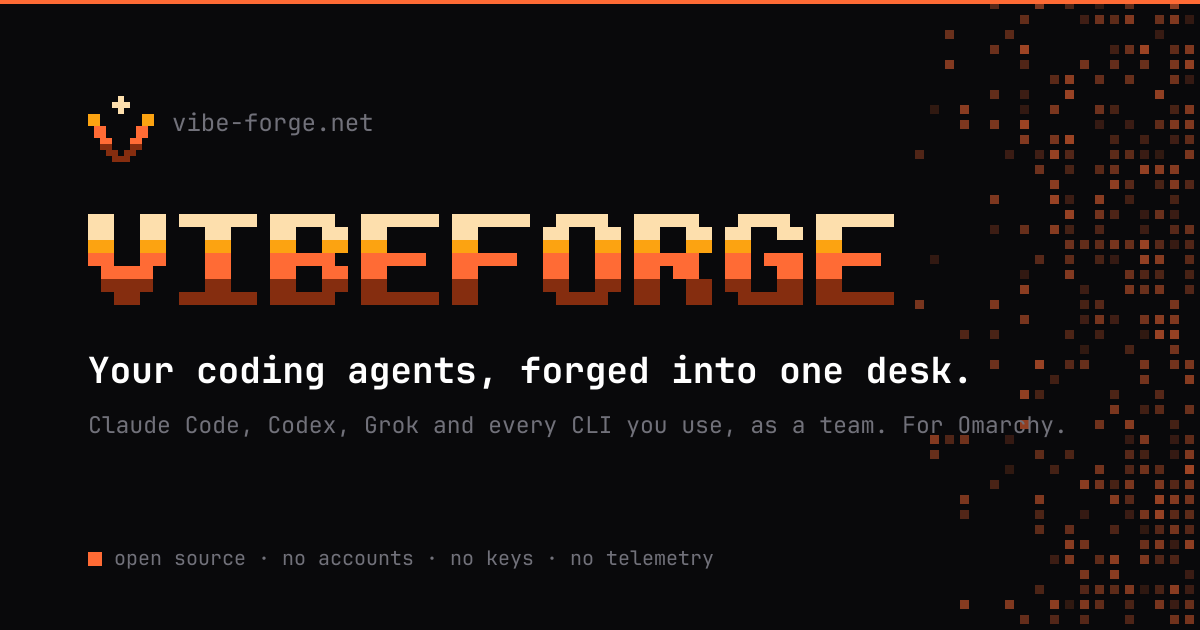
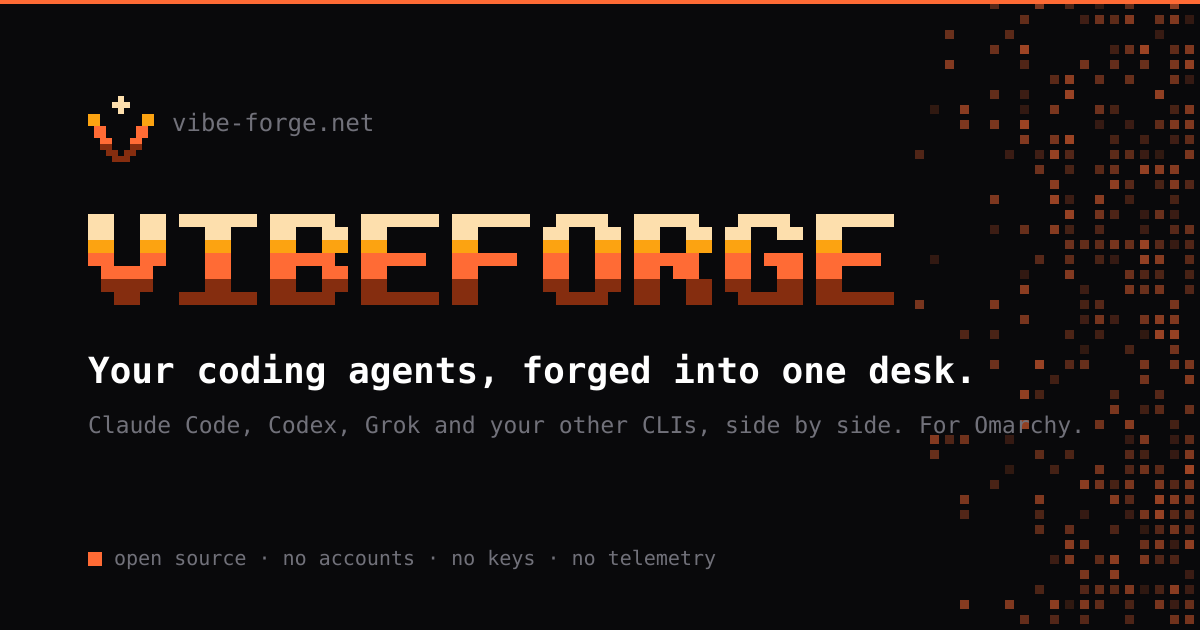
chore(site): call the feature Maestro and share the README's pitch
The page mixed Maestro (rail, tour) and Orchestrator (card mock-up, keys,
alt text). Maestro is the name throughout, said once to be VibeForge's
orchestrator. The description, og:description and JSON-LD now use the
README's one-line pitch, and the social image's line drops "as a team" for
"side by side" (regenerated with scripts/brand.ts; og:image carries a new
?v= so cached cards refresh).

diff --git a/site/index.html b/site/index.html
@@ -4,18 +4,18 @@
     <meta charset="utf-8" />
     <meta name="viewport" content="width=device-width, initial-scale=1" />
     <title>VibeForge — your coding agents, forged into one desk</title>
-    <meta name="description" content="An open-source desktop app for Omarchy that runs Claude Code, Codex, Grok, and your other coding CLIs side by side, each on its own branch in a git worktree. Includes saved agents, scheduled routines, and git diffs to review. No accounts, no API keys, no telemetry." />
+    <meta name="description" content="An open-source desktop for Omarchy that runs Claude Code, Codex, Grok and the other coding CLIs you already use, side by side in real terminals. No accounts, no API keys, no telemetry." />
     <meta name="theme-color" content="#09090b" />
     <meta property="og:type" content="website" />
     <meta property="og:url" content="https://vibe-forge.net/" />
     <meta property="og:title" content="VibeForge — your coding agents, forged into one desk" />
-    <meta property="og:description" content="Run several coding CLIs at once, each on its own branch in a git worktree, in one open-source desktop app for Omarchy." />
-    <meta property="og:image" content="https://vibe-forge.net/assets/og.png" />
+    <meta property="og:description" content="An open-source desktop for Omarchy that runs Claude Code, Codex, Grok and the other coding CLIs you already use, side by side in real terminals." />
+    <meta property="og:image" content="https://vibe-forge.net/assets/og.png?v=2.13.0-1" />
     <meta property="og:image:width" content="1200" />
     <meta property="og:image:height" content="630" />
-    <meta property="og:image:alt" content="The VibeForge pixel wordmark in ember and amber: your coding agents, forged into one desk." />
+    <meta property="og:image:alt" content="The VibeForge pixel wordmark in ember and amber: your coding agents, forged into one desk. Claude Code, Codex, Grok and your other CLIs, side by side. For Omarchy." />
     <meta name="twitter:card" content="summary_large_image" />
-    <meta name="twitter:image" content="https://vibe-forge.net/assets/og.png" />
+    <meta name="twitter:image" content="https://vibe-forge.net/assets/og.png?v=2.13.0-1" />
     <link rel="canonical" href="https://vibe-forge.net/" />
     <link rel="icon" href="favicon.ico" sizes="32x32" />
     <link rel="icon" href="assets/icon.svg" type="image/svg+xml" />
@@ -334,12 +334,12 @@
             <div class="card-copy">
               <span class="card-icon" aria-hidden="true"><svg><use href="#i-workflow" /></svg></span>
               <h3>Tell VibeForge what to start</h3>
-              <p>Press <kbd>Ctrl</kbd>+<kbd>Shift</kbd>+<kbd>O</kbd> anywhere and type or dictate what you want running: <i>“In web-app, have Claude Code fix the mobile nav menu, and start Codex to write tests for checkout.”</i> One of your signed-in CLIs (Grok Build, Claude Code, Codex, or Antigravity) turns that into a plan without touching any files. Press <b>Go</b> and each CLI opens on its own git branch in a separate worktree, leaving your main checkout untouched.</p>
+              <p>Press <kbd>Ctrl</kbd>+<kbd>Shift</kbd>+<kbd>O</kbd> anywhere to open Maestro, VibeForge's orchestrator, and type or dictate what you want running: <i>“In web-app, have Claude Code fix the mobile nav menu, and start Codex to write tests for checkout.”</i> One of your signed-in CLIs (Grok Build, Claude Code, Codex, or Antigravity) turns that into a plan without touching any files. Press <b>Go</b> and each CLI opens on its own git branch in a separate worktree, leaving your main checkout untouched.</p>
               <p>No API key and nothing extra to download: planning uses the CLI subscription you're already signed in to. Edit any step or branch name before pressing <b>Go</b>, or switch to <b>Just go</b> to launch right away. It only starts CLIs you ask for.</p>
             </div>
             <div class="art art-orch" aria-hidden="true">
               <div class="or-bar">
-                <div class="or-head"><svg><use href="#i-workflow" /></svg><b>Orchestrator</b><span class="or-mic"><svg><use href="#i-mic" /></svg>listening</span></div>
+                <div class="or-head"><svg><use href="#i-workflow" /></svg><b>Maestro</b><span class="or-mic"><svg><use href="#i-mic" /></svg>listening</span></div>
                 <div class="or-you">In web-app, have Claude Code fix the mobile nav menu, and start Codex to write tests for checkout.</div>
                 <div class="or-say">Starting Claude Code on fix-nav and Codex on checkout-tests in web-app.</div>
                 <div class="or-plan">
@@ -623,13 +623,13 @@
               <img src="assets/app-home.webp?v=2.12.1" width="1890" height="1138" alt="VibeForge's Home: the pixel wordmark beside a year of commits, nine terminals running, three runs to review, Claude Code and Codex waiting for you by name, the terminals live now, and the six workspaces with two glowing because their CLIs are waiting." />
             </figure>
             <figure class="shot">
-              <img src="assets/app-code.webp?v=2.12.1" width="1890" height="1138" alt="Code mode on the VibeForge repository: git log with the 2.12 release tags, a diffstat of the Orchestrator from 2.11.0 to 2.12.1 in the focused pane, a TypeScript watch its title bar names, two workspaces glowing in the list, and the file tree on the right." loading="lazy" />
+              <img src="assets/app-code.webp?v=2.12.1" width="1890" height="1138" alt="Code mode on the VibeForge repository: git log with the 2.12 release tags, a diffstat of Maestro's code from 2.11.0 to 2.12.1 in the focused pane, a TypeScript watch its title bar names, two workspaces glowing in the list, and the file tree on the right." loading="lazy" />
             </figure>
             <figure class="shot">
               <img src="assets/app-tasks.webp?v=2.12.1" width="1890" height="1138" alt="The task board with cards in To do, Running, Review and Done, each assigned to an agent and a workspace, the finished ones with their diff." loading="lazy" />
             </figure>
             <figure class="shot">
-              <img src="assets/app-maestro.webp?v=2.12.1" width="1890" height="1138" alt="The Orchestrator: asked what's running, it answers in a sentence; asked to start Claude Code in landing-page on hero-copy and Codex in weather-api on rate-limit, it shows the plan, both steps done with Open in Code, and the Running list beside it marks the two it started." loading="lazy" />
+              <img src="assets/app-maestro.webp?v=2.12.1" width="1890" height="1138" alt="Maestro: asked what's running, it answers in a sentence; asked to start Claude Code in landing-page on hero-copy and Codex in weather-api on rate-limit, it shows the plan, both steps done with Open in Code, and the Running list beside it marks the two it started." loading="lazy" />
             </figure>
           </div>
           <p class="tour-caption" data-tour-caption><b>Home</b> Running terminals, CLIs waiting on your input, diffs to review, and upcoming scheduled runs.</p>
@@ -725,7 +725,7 @@
             <dl class="keys">
               <div><dt><kbd>Ctrl</kbd><kbd>K</kbd></dt><dd>Jump to any agent, chat, workspace, task, routine, or skill, or search past runs by transcript</dd></div>
               <div><dt><kbd>Ctrl</kbd><kbd>1</kbd>…<kbd>9</kbd></dt><dd>Home, Agents, Code, Chat, Tasks, Routines, Skills, Runs, Maestro</dd></div>
-              <div><dt><kbd>Ctrl</kbd><kbd>Shift</kbd><kbd>O</kbd></dt><dd>Open Orchestrator from any view to launch CLIs on new branches</dd></div>
+              <div><dt><kbd>Ctrl</kbd><kbd>Shift</kbd><kbd>O</kbd></dt><dd>Open Maestro from any view to start CLIs on new branches</dd></div>
               <div><dt><kbd>Ctrl</kbd><kbd>Shift</kbd><kbd>D</kbd>/<kbd>E</kbd></dt><dd>Split a new terminal to the right or below</dd></div>
               <div><dt><kbd>Ctrl</kbd><kbd>Shift</kbd><kbd>M</kbd></dt><dd>Maximize the focused pane</dd></div>
               <div><dt><kbd>Ctrl</kbd><kbd>Z</kbd></dt><dd>Undo a delete while its toast is up</dd></div>

diff --git a/scripts/brand.ts b/scripts/brand.ts
@@ -98,7 +98,7 @@ const og = `<svg xmlns="http://www.w3.org/2000/svg" width="1200" height="630" vi
   <text x="${ogX + m.width * 6 + 18}" y="131" font-family="JetBrainsMono Nerd Font, JetBrains Mono, monospace" font-size="24" fill="${APEX.ash}">vibe-forge.net</text>
   ${rects(w, ogPx, ogX, ogY, (y) => SHADES[shade(y, w.height)])}
   <text x="${ogX}" y="${ogY + 7 * ogPx + 78}" font-family="JetBrainsMono Nerd Font, JetBrains Mono, monospace" font-size="36" font-weight="600" fill="${APEX.fg}">Your coding agents, forged into one desk.</text>
-  <text x="${ogX}" y="${ogY + 7 * ogPx + 128}" font-family="JetBrainsMono Nerd Font, JetBrains Mono, monospace" font-size="23" fill="${APEX.ash}">Claude Code, Codex, Grok and every CLI you use, as a team. For Omarchy.</text>
+  <text x="${ogX}" y="${ogY + 7 * ogPx + 128}" font-family="JetBrainsMono Nerd Font, JetBrains Mono, monospace" font-size="23" fill="${APEX.ash}">Claude Code, Codex, Grok and your other CLIs, side by side. For Omarchy.</text>
   <rect x="${ogX}" y="552" width="14" height="14" fill="${APEX.accent}"/>
   <text x="${ogX + 26}" y="565" font-family="JetBrainsMono Nerd Font, JetBrains Mono, monospace" font-size="20" fill="${APEX.ash}">open source · no accounts · no keys · no telemetry</text>
 </svg>
